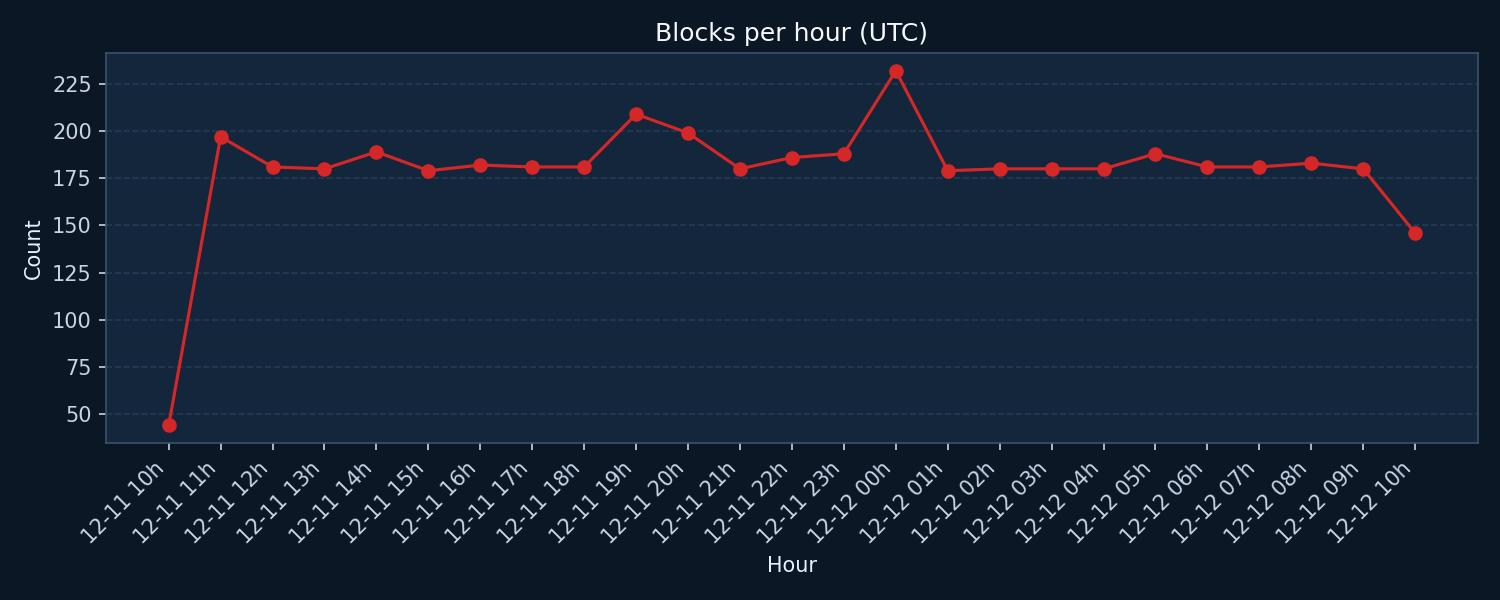
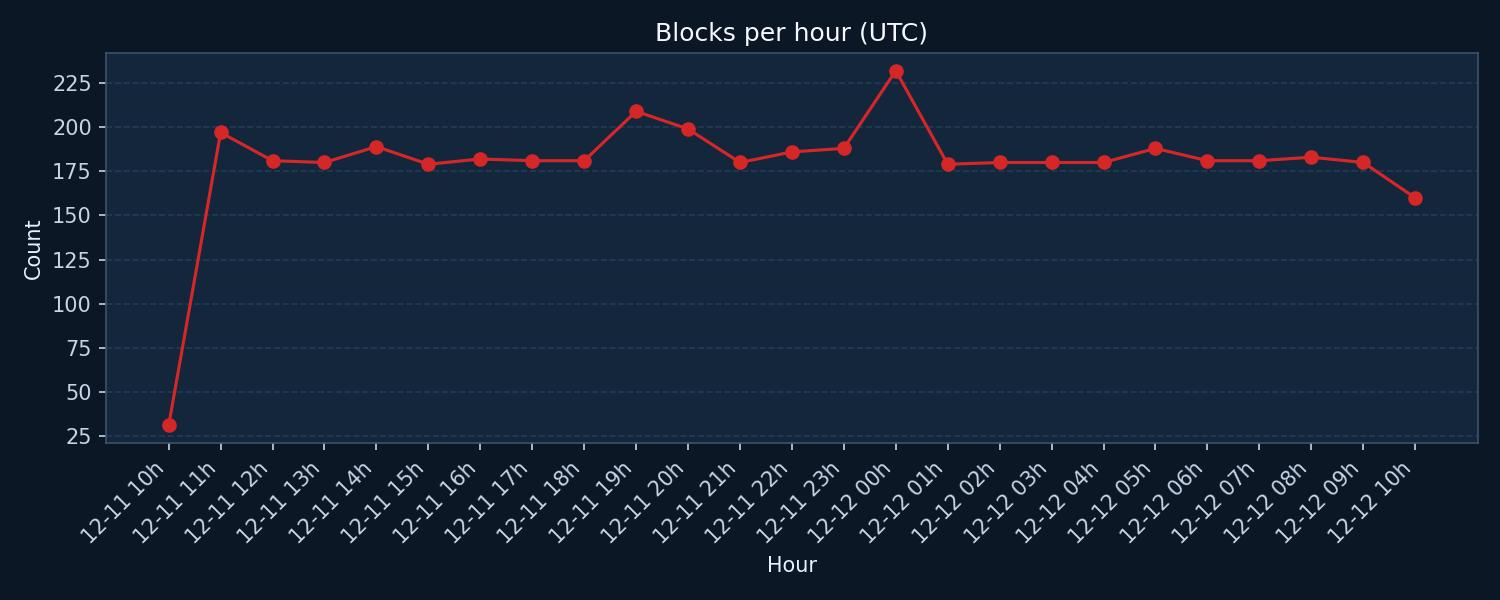
latest

diff --git a/analyze_ufw.py b/analyze_ufw.py
@@ -653,7 +653,15 @@ def cluster_geo_points(points: List[Dict[str, object]], cell_size: float = 2.5) 
     return clustered
 
 
-def plot_bar(counter: collections.Counter, outfile: Path, title: str, xlabel: str, limit: int = 10):
+def plot_bar(
+    counter: collections.Counter,
+    outfile: Path,
+    title: str,
+    xlabel: str,
+    limit: int = 10,
+    *,
+    horizontal: bool = False,
+):
     if not counter:
         return None
     plt = _get_plt()
@@ -663,14 +671,27 @@ def plot_bar(counter: collections.Counter, outfile: Path, title: str, xlabel: st
     outfile = Path(outfile)
     outfile.parent.mkdir(parents=True, exist_ok=True)
 
-    fig, ax = plt.subplots(figsize=(9, 4))
-    ax.bar(range(len(labels)), counts, color="#5fb0ff")
+    height = max(4.0, 0.6 * len(labels)) if horizontal else 4
+    width = 10 if horizontal else 9
+    fig, ax = plt.subplots(figsize=(width, height))
     ax.set_title(title)
-    ax.set_xlabel(xlabel)
-    ax.set_ylabel("Count")
-    ax.set_xticks(range(len(labels)))
-    ax.set_xticklabels(labels, rotation=45, ha="right")
-    _apply_dark_axes(fig, ax, grid_axis="y")
+
+    if horizontal:
+        y_positions = list(range(len(labels)))
+        ax.barh(y_positions, counts, color="#5fb0ff")
+        ax.set_yticks(y_positions)
+        ax.set_yticklabels(labels)
+        ax.invert_yaxis()
+        ax.set_xlabel("Count")
+        ax.set_ylabel(xlabel)
+    else:
+        ax.bar(range(len(labels)), counts, color="#5fb0ff")
+        ax.set_xlabel(xlabel)
+        ax.set_ylabel("Count")
+        ax.set_xticks(range(len(labels)))
+        ax.set_xticklabels(labels, rotation=45, ha="right")
+
+    _apply_dark_axes(fig, ax, grid_axis="x" if horizontal else "y")
     fig.tight_layout()
     fig.savefig(outfile, dpi=150, facecolor=fig.get_facecolor())
     plt.close(fig)
@@ -895,7 +916,6 @@ def main():
     if args.plots_dir:
         plots_dir = Path(args.plots_dir)
         ports_img = plot_bar(ports, plots_dir / "ufw_top_ports.jpg", "Top destination ports", "Port", args.top_ports)
-        ips_img = plot_bar(ips, plots_dir / "ufw_top_ips.jpg", "Top source IPs", "IP", args.top_ips)
         locations_img = (
             plot_bar(
                 location_counts,
@@ -903,6 +923,7 @@ def main():
                 "Top source countries/cities",
                 "Location",
                 args.top_ips,
+                horizontal=True,
             )
             if location_counts
             else None
@@ -911,7 +932,6 @@ def main():
         geo_img = plot_geo_bubbles(geo_points, plots_dir / "ufw_geo_map.jpg") if geo_points else None
         for label, img in [
             ("Top destination ports", ports_img),
-            ("Top source IPs", ips_img),
             ("Top source countries/cities", locations_img),
             ("Blocks per hour (UTC)", hourly_img),
             ("Block map", geo_img),

diff --git a/ufw_report.md b/ufw_report.md
@@ -2,16 +2,16 @@
 
 - Log: `/var/log/ufw.log`
 - Window: last 24.0 hours
-- Total blocks: 4486
+- Total blocks: 4487
 - Unique source IPs: 1872
-- Unique destination ports: 2561
+- Unique destination ports: 2559
 
 ## Top destination ports
 | # | Destination port | Count | % |
 | ---: | --- | ---: | ---: |
-| 1 | `8333` | 464 | 10.3% |
+| 1 | `8333` | 466 | 10.4% |
 | 2 | `23` | 131 | 2.9% |
-| 3 | `443` | 74 | 1.6% |
+| 3 | `443` | 75 | 1.7% |
 | 4 | `8080` | 53 | 1.2% |
 | 5 | `22` | 39 | 0.9% |
 | 6 | `3389` | 38 | 0.8% |
@@ -20,18 +20,18 @@
 | 9 | `53` | 20 | 0.4% |
 | 10 | `1433` | 19 | 0.4% |
 | 11 | `8443` | 19 | 0.4% |
-| 12 | `389` | 16 | 0.4% |
-| 13 | `5060` | 15 | 0.3% |
+| 12 | `5060` | 15 | 0.3% |
+| 13 | `389` | 15 | 0.3% |
 | 14 | `3000` | 15 | 0.3% |
 | 15 | `1900` | 14 | 0.3% |
 
 ## Top source IPs
 | # | Source IP | Count | % |
 | ---: | --- | ---: | ---: |
-| 1 | `194.180.49.70` | 134 | 3.0% |
+| 1 | `194.180.49.70` | 135 | 3.0% |
 | 2 | `147.229.8.240` | 107 | 2.4% |
 | 3 | `79.124.62.230` | 90 | 2.0% |
-| 4 | `79.124.62.126` | 82 | 1.8% |
+| 4 | `79.124.62.126` | 81 | 1.8% |
 | 5 | `109.236.61.34` | 57 | 1.3% |
 | 6 | `103.99.170.131` | 51 | 1.1% |
 | 7 | `185.91.127.107` | 44 | 1.0% |
@@ -39,8 +39,8 @@
 | 9 | `103.99.170.132` | 41 | 0.9% |
 | 10 | `208.68.7.148` | 41 | 0.9% |
 | 11 | `151.101.218.73` | 30 | 0.7% |
-| 12 | `103.102.230.4` | 23 | 0.5% |
-| 13 | `45.11.57.212` | 22 | 0.5% |
+| 12 | `45.11.57.212` | 23 | 0.5% |
+| 13 | `103.102.230.4` | 23 | 0.5% |
 | 14 | `85.217.140.1` | 22 | 0.5% |
 | 15 | `51.161.174.170` | 20 | 0.4% |
 
@@ -52,9 +52,9 @@
 | 3 | `100.24.10.103` -> `8333` | 42 | 0.9% |
 | 4 | `103.99.170.132` -> `8333` | 41 | 0.9% |
 | 5 | `208.68.7.148` -> `8333` | 41 | 0.9% |
-| 6 | `103.102.230.4` -> `8728` | 23 | 0.5% |
-| 7 | `109.236.61.34` -> `5000` | 23 | 0.5% |
-| 8 | `45.11.57.212` -> `8333` | 22 | 0.5% |
+| 6 | `45.11.57.212` -> `8333` | 23 | 0.5% |
+| 7 | `103.102.230.4` -> `8728` | 23 | 0.5% |
+| 8 | `109.236.61.34` -> `5000` | 23 | 0.5% |
 | 9 | `129.132.30.218` -> `8333` | 18 | 0.4% |
 | 10 | `109.236.61.34` -> `8080` | 16 | 0.4% |
 | 11 | `204.76.203.83` -> `22` | 15 | 0.3% |
@@ -66,7 +66,7 @@
 ## Blocks per hour (UTC)
 | Hour (UTC) | Count | % |
 | :--- | ---: | ---: |
-| 2025-12-11 10:00:00:00 | 44 | 1.0% |
+| 2025-12-11 10:00:00:00 | 31 | 0.7% |
 | 2025-12-11 11:00:00:00 | 197 | 4.4% |
 | 2025-12-11 12:00:00:00 | 181 | 4.0% |
 | 2025-12-11 13:00:00:00 | 180 | 4.0% |
@@ -90,15 +90,15 @@
 | 2025-12-12 07:00:00:00 | 181 | 4.0% |
 | 2025-12-12 08:00:00:00 | 183 | 4.1% |
 | 2025-12-12 09:00:00:00 | 180 | 4.0% |
-| 2025-12-12 10:00:00:00 | 146 | 3.3% |
+| 2025-12-12 10:00:00:00 | 160 | 3.6% |
 
 ## Top source countries/cities
 | # | Location | Count | % |
 | ---: | --- | ---: | ---: |
-| 1 | Germany / Bavaria / Berngau / HostSlick | 134 | 16.6% |
+| 1 | Germany / Bavaria / Berngau / HostSlick | 135 | 16.7% |
 | 2 | Czechia / South Moravian / Tišnov / VUTBR | 107 | 13.3% |
 | 3 | Seychelles / La Rivière Anglaise / Victoria / Internet Solutions & Innovations LTD | 90 | 11.2% |
-| 4 | Victoria, Seychelles | 82 | 10.2% |
+| 4 | Victoria, Seychelles | 81 | 10.0% |
 | 5 | Amsterdam, The Netherlands | 57 | 7.1% |
 | 6 | San Jose, United States | 51 | 6.3% |
 | 7 | Eygelshoven, The Netherlands | 44 | 5.5% |
@@ -106,18 +106,18 @@
 | 9 | United States / California / San Jose / WIZ K K | 41 | 5.1% |
 | 10 | New York, United States | 41 | 5.1% |
 | 11 | Argentina / Buenos Aires F.D. / Buenos Aires / Fastly, Inc. | 30 | 3.7% |
-| 12 | Yakutsk, Russia | 23 | 2.9% |
-| 13 | Kyiv, Ukraine | 22 | 2.7% |
+| 12 | Kyiv, Ukraine | 23 | 2.9% |
+| 13 | Yakutsk, Russia | 23 | 2.9% |
 | 14 | Paris, France | 22 | 2.7% |
 | 15 | North Sydney, Australia | 20 | 2.5% |
 
 ## Geolocation (max 15 IPs)
 | # | Source IP | Count | % | Location | Network / hint |
 | ---: | --- | ---: | ---: | --- | --- |
-| 1 | `194.180.49.70` | 134 | 16.6% | Germany / Bavaria / Berngau / HostSlick | No apparent signal |
+| 1 | `194.180.49.70` | 135 | 16.7% | Germany / Bavaria / Berngau / HostSlick | No apparent signal |
 | 2 | `147.229.8.240` | 107 | 13.3% | Czechia / South Moravian / Tišnov / VUTBR | No apparent signal |
 | 3 | `79.124.62.230` | 90 | 11.2% | Seychelles / La Rivière Anglaise / Victoria / Internet Solutions & Innovations LTD | No apparent signal |
-| 4 | `79.124.62.126` | 82 | 10.2% | Seychelles / La Rivière Anglaise / Victoria / Internet Solutions & Innovations LTD | No apparent signal |
+| 4 | `79.124.62.126` | 81 | 10.0% | Seychelles / La Rivière Anglaise / Victoria / Internet Solutions & Innovations LTD | No apparent signal |
 | 5 | `109.236.61.34` | 57 | 7.1% | The Netherlands / North Holland / Amsterdam / ColocationX Ltd | Hosting/Cloud (colo) |
 | 6 | `103.99.170.131` | 51 | 6.3% | United States / California / San Jose / WIZ K K | No apparent signal |
 | 7 | `185.91.127.107` | 44 | 5.5% | The Netherlands / Limburg / Eygelshoven / Tube VPS | No apparent signal |
@@ -125,8 +125,8 @@
 | 9 | `103.99.170.132` | 41 | 5.1% | United States / California / San Jose / WIZ K K | No apparent signal |
 | 10 | `208.68.7.148` | 41 | 5.1% | United States / New York / New York / Privacy Services | No apparent signal |
 | 11 | `151.101.218.73` | 30 | 3.7% | Argentina / Buenos Aires F.D. / Buenos Aires / Fastly, Inc. | CDN/Edge (fastly) |
-| 12 | `103.102.230.4` | 23 | 2.9% | Russia / Sakha / Yakutsk / mkr. Rostoshi | Mobile/CGNAT (lte) |
-| 13 | `45.11.57.212` | 22 | 2.7% | Ukraine / Kyiv City / Kyiv / Virtual Systems LLC | No apparent signal |
+| 12 | `45.11.57.212` | 23 | 2.9% | Ukraine / Kyiv City / Kyiv / Virtual Systems LLC | No apparent signal |
+| 13 | `103.102.230.4` | 23 | 2.9% | Russia / Sakha / Yakutsk / mkr. Rostoshi | Mobile/CGNAT (lte) |
 | 14 | `85.217.140.1` | 22 | 2.7% | France / Île-de-France / Paris / Modat B.V | No apparent signal |
 | 15 | `51.161.174.170` | 20 | 2.5% | Australia / New South Wales / North Sydney / OVH Australia PTY LTD | Hosting/Cloud (ovh) |
 
@@ -140,7 +140,6 @@
 
 ## Charts
 ![Top destination ports](ufw_plots/ufw_top_ports.jpg)
-![Top source IPs](ufw_plots/ufw_top_ips.jpg)
 ![Top source countries/cities](ufw_plots/ufw_top_locations.jpg)
 ![Blocks per hour (UTC)](ufw_plots/ufw_hourly.jpg)
 ![Block map](ufw_plots/ufw_geo_map.jpg)
